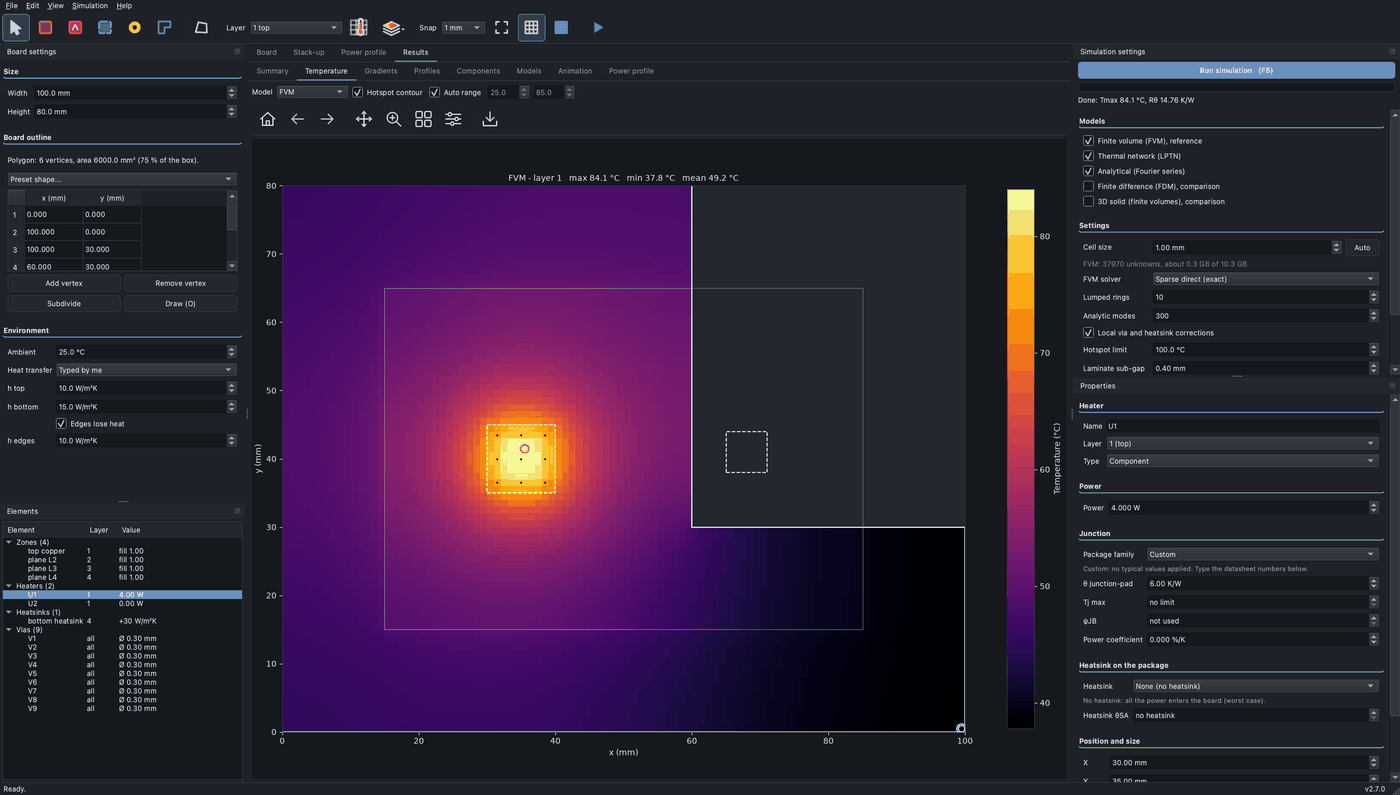
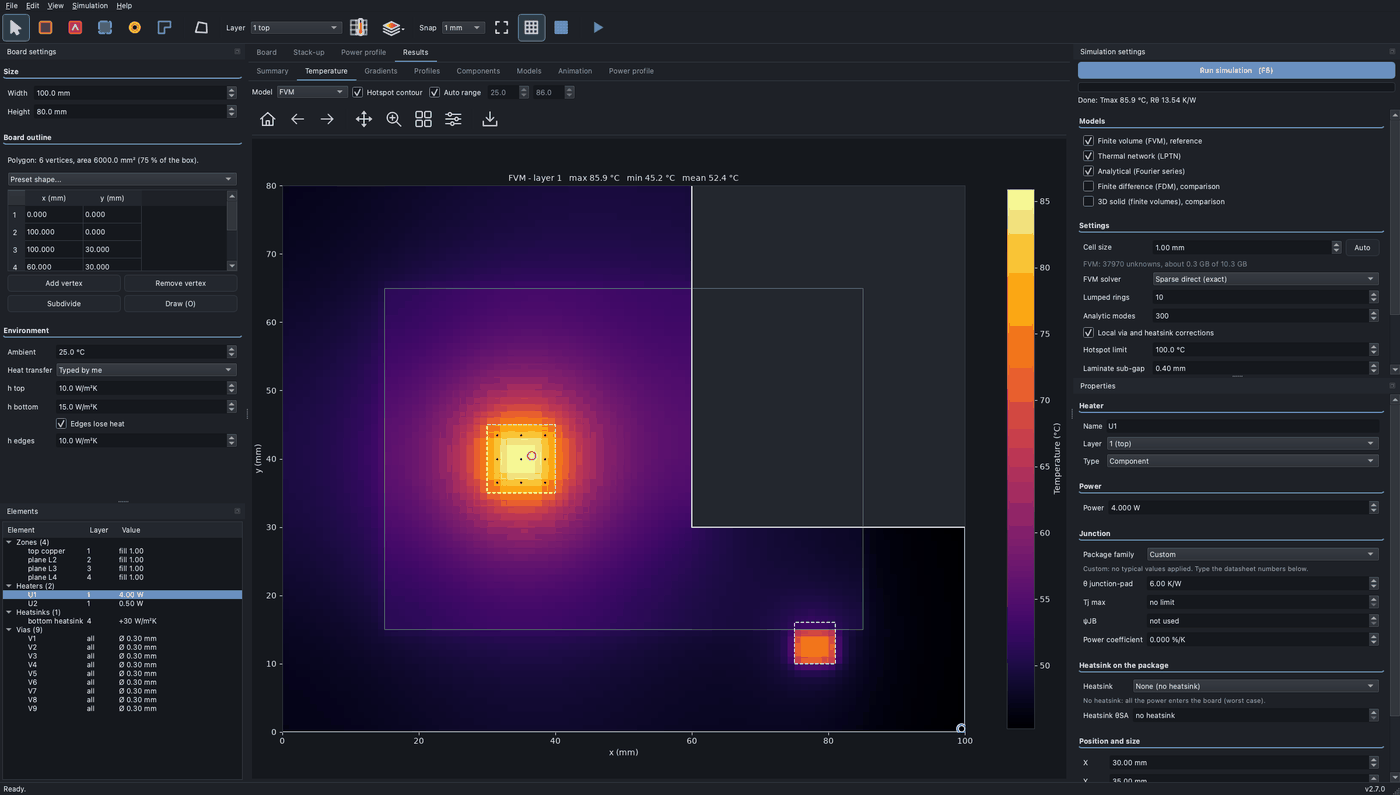
Place the outline-picture heater U2 on the board
U2 sat in the cut-away corner of the L and had 0 W; it now stands in the
other arm with 0.5 W. Regenerated outline.png and outline_temperature.png.

Claude-Session: https://claude.ai/code/session_01XgeLDd5tWg6CEJL9TQpCpU

diff --git a/examples/make_screenshots.py b/examples/make_screenshots.py
@@ -14,6 +14,8 @@ import sys
 import tempfile
 import time
 
+import numpy as np
+
 os.environ.setdefault("QT_QPA_PLATFORM", "offscreen")
 os.environ.setdefault("QT_API", "pyside6")
 # Neutral configuration folder: Preferences shows the path of user_defaults.json, which must never be a personal path in a committed picture
@@ -127,7 +129,8 @@ def main(out_dir):
     # A board with an outline: the L-shaped board and its temperature map
     win._load_problem(example_board(), "example-outline")
     win.doc.set_outline([[0, 0], [100, 0], [100, 30], [60, 30], [60, 80], [0, 80]])
-    win.doc.set_props("heater", 1, power=0.0, merge=False)
+    # U2 moves from the cut-away corner into the other arm of the L (x 75 to 81 mm, y 10 to 16 mm) so that it stands on the board; 0.5 W is a small real power
+    win.doc.set_props("heater", 1, power=0.5, polygon=np.array([[0.075, 0.010], [0.081, 0.010], [0.081, 0.016], [0.075, 0.016]]), merge=False)
     win.tabs.setCurrentIndex(0)
     win.canvas.fit()
     shot("outline.png")

diff --git a/CHANGELOG.md b/CHANGELOG.md
@@ -7,6 +7,8 @@ MAJOR for incompatible changes, MINOR for new features, PATCH for fixes. Release
 
 ### Docs
 
+- **The outline pictures no longer show a part off the board** (`docs/screenshots-outline-heater`; pictures only): in `outline.png` and `outline_temperature.png` the heater U2 (0 W) sat inside the cut-away corner of the L; `examples/make_screenshots.py` now puts it in the other arm (x 75 to 81 mm, y 10 to 16 mm) with 0.5 W, and the two pictures were regenerated.
+
 - **The warnings picture no longer shows a part hanging off the board** (`docs/screenshots-warnings-placement`; pictures only): `examples/make_screenshots.py` places the second source X1 fully on the RP2040 board over copper, and the Results summary picture of the imported board gets a genuine alert (the chip's junction limit exceeded) instead; `editor_warnings.png` and `results_summary_imported.png` regenerated.
 
 ### Fixed
